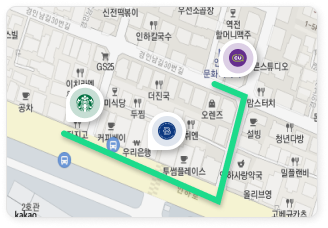
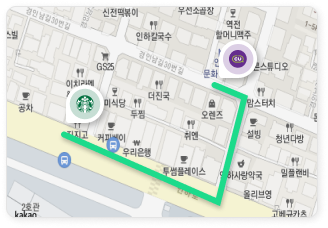
feat: 지도 아이콘 띠용하는 효과

diff --git a/src/pages/MapLog/MapLog.jsx b/src/pages/MapLog/MapLog.jsx
@@ -8,6 +8,10 @@ import { IoIosArrowDown, IoIosArrowUp } from 'react-icons/io';
 import axios from 'axios';
 import leaf from './leaf.png';
 import map from './Group 6261.png';
+import pin from './pin.png';
+import { motion } from 'framer-motion';
+
+const { kakao } = window;
 
 const AllWrapper = styled.div`
   width: 100%;
@@ -115,12 +119,22 @@ const MapLog = ({ isOpen, setIsOpen }) => {
             )}
           </DaySelectWrapper>
           <MapWrapper>
+            {isOpen && (
+              <motion.img
+                initial={{ scale: 0 }}
+                animate={{ scale: 1 }}
+                transition={{ ease: 'easeOut', delay: 1.5, stiffness: 260, damping: 20 }}
+                src={pin}
+                style={{ position: 'absolute', top: '180px' }}
+              />
+            )}
             <img
               src={map}
               id='myMap'
               style={{
+                objectFit: 'cover',
                 width: '340px',
-                height: '212px',
+                height: '200px',
                 borderRadius: '10px',
               }}
             ></img>

diff --git a/src/pages/Main/Component/SummaryInfo.jsx b/src/pages/Main/Component/SummaryInfo.jsx
@@ -37,6 +37,7 @@ const InfoBox = styled.div`
   align-items: center;
   justify-content: space-around;
 `;
+
 const InfoBoxTypoWrapper = styled.div`
   width: 220px;
   height: auto;
